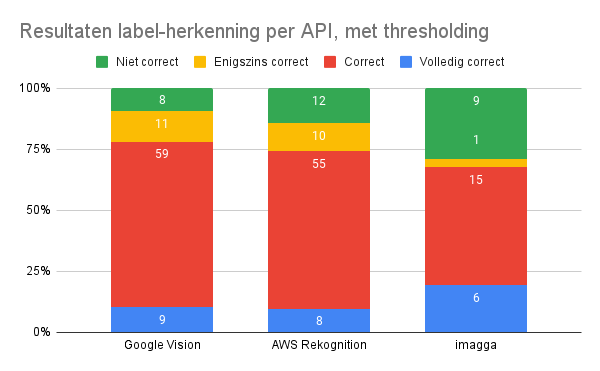
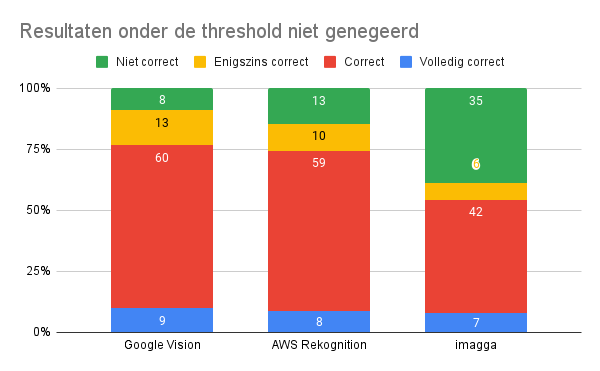
write on resultaten

diff --git a/bachproef/resultaten.tex b/bachproef/resultaten.tex
@@ -2,7 +2,7 @@
 %% Resultaten
 %%=============================================================================
 
-\chapter{\IfLanguageName{dutch}{Resultaten}{Results}}
+\chapter{\IfLanguageName{dutch}{Vergelijking van resultaten}{Comparing results}}
 \label{ch:resultaten}
 
 \section{\IfLanguageName{dutch}{Inleiding}{Preface}}
@@ -11,29 +11,15 @@ Na het uitvoeren van de code zoals besproken in Hoofdstuk\ref{ch:methodologie} w
 
 Op basis van deze csv werd voor iedere label een score vastgelegd zoals besproken in Sectie~\ref{sec:scoren-van-labels}. Daarnaast werd voor ieder gevonden label aangeduid of de threshold van 75\% zekerheidsgraad gehaald werd, de volledige resultaten van de scoring kunnen teruggevonden worden in deze\footnote{https://docs.google.com/spreadsheets/d/1oCs-aDkhPV2lCayjLyzUPF0SlAUZ7vMjzD4DYuIluyE} Google Sheet. In de sheet kan men ook de aggregatie van de resultaten en grafieken terugvinden.
 
-In de eerste sectie van dit hoofdstuk worden de resultaten besproken waarbij labels met een zekerheidsgraad onder de threshold genegeerd werden. In de volgende sectie worden de volledige resultaten van het onderzoek besproken en wordt de impact van de threshold per computer vision API verder toegelicht. Ten slotte wordt de peformantie van iedere API besproken en wordt er een besluit getrokken in functie van de onderzoeksvraag.
+In de eerste sectie van dit hoofdstuk worden de resultaten besproken waarbij labels met een zekerheidsgraad onder de threshold genegeerd worden. In de volgende sectie worden de volledige resultaten van het onderzoek besproken en wordt de impact van de threshold per computer vision API verder toegelicht. Ten slotte wordt de peformantie van iedere API besproken en wordt er een besluit getrokken in functie van de onderzoeksvraag.
 
-\section{\IfLanguageName{dutch}{Resultaten met thresholding}{Results with thresholding on confidence}}
+\section{\IfLanguageName{dutch}{Resultaten met thresholding toegepast}{Results with thresholding on confidence}}
 \label{sec:resultaten-met-thresholding}
 In de genormaliseerde staafdiagram op Figuur~\ref{fig:resultswiththresholding} worden het aantal resultaten per score van iedere computer vision API afgebeeld, waarbij de labels met een zekerheidsgraad onder 75\% werden genegeerd. Figuur~\ref{fig:resultswiththresholdingnotstacked} beeldt dezelfde data af maar in absolute waardes.
 
-\begin{figure}
-    \centering    
-    \includegraphics[width=\textwidth]{resultswiththresholding}
-    \caption{Resultaten label-herkenning per API, met thresholding}
-    \label{fig:resultswiththresholding}
-\end{figure}
+De percentages besproken in de volgende subsecties zijn steeds de percentages van het totaal van de respectievelijke scores zoals afgebeeld in Figuur~\ref{fig:resultswiththresholding}.
 
-\begin{figure}
-    \centering    
-    \includegraphics[width=\textwidth]{resultswiththresholdingnotstacked}
-    \caption{Resultaten label-herkenning per API, met thresholding niet genormaliseerd}
-    \label{fig:resultswiththresholdingnotstacked}
-\end{figure}
-
-Bij zowel Google Vision als AWS Rekognition zijn de resultaten gelijkaardig, imagga scoort significant verschillend. Aangezien de resultaten van Google Vision en AWS Rekognition dicht bij elkaar liggen worden deze naast elkaar besproken. Bij beide API's is het grootste deel van de gevonden labels 'correct'. Dit betekent dat de label correct was voor de afbeelding maar niet in de originele dataset vervat zat. Verder wijken ook de scores van van 'volledig correct' en 'engiszins correct' niet van elkaar significant af. Bij Google Vision werden er 8 labels - of 9,2\% van het totaal- als 'niet correct' gepunt, AWS Rekognition scoort hier 12 verkeerde labels of 14,12\% van het totaal. Een verschil minder dan 5\% is niet significant maar kan een trend voorspellen.
-
-In Figuur~\ref{fig:resultsthresholding} wordt het aantal labels afgebeeld dat de threshold-zekerheidsgraad niet haalde, opnieuw zien we een niet significant verschil tussen Google Vision en AWS Rekognition. Bij Google Vision vielen 3 labels of 3,3\% van het totaal onder de threshold, bij AWS Rekognition is dat 5 labels of 5,6\% van het totaal. Men kan stellen dat de resultaten over de hele lijn sterk gelijkaardig zijn tussen Google Vision en AWS Rekognition, met de mogelijkheid dat Google Vision iets beter scoort.
+Het is belangrijk om te vermelden dat bij imagga significant meer resultaten onder de threshold vielen waardoor de samplegroep in deze sectie slechts 31 scores omvat, zie Figuur~\ref{fig:resultsthresholding}.
 
 \begin{figure}
     \centering    
@@ -42,19 +28,82 @@ In Figuur~\ref{fig:resultsthresholding} wordt het aantal labels afgebeeld dat de
     \label{fig:resultsthresholding}
 \end{figure}
 
-De resultaten van imagga geven een ander beeld, bij Figuur~\ref{fig:resultswiththresholdingnotstacked} is op het eerste zich duidelijk dat er minder resultaten beschikbaar zijn als bij Google Vision of AWS Rekognition. Dit komt omdat 59 van de 90 labels (of 65,6\%) onder de threshold vallen, dit zorgt voor slechts 31 resultaten die geanalyseerd kunnen worden.
+\begin{figure}
+    \centering    
+    \includegraphics[width=\textwidth]{resultswiththresholding}
+    \caption{Genormaliseerde resultaten label-herkenning per API, resultaten onder de threshold genegeerd}
+    \label{fig:resultswiththresholding}
+\end{figure}
 
-Opvallend is dat voor imagga het aantal labels met 'volledig correct' een significant hoger percentage (19,35\%) van het totaal omvat als voor Google Vision (10,34\%) of AWS Rekognition (9,41\%). Verder heeft imagga slechts 1 'engiszins correct' label. 9 labels of 29,03\% van het totaal werden gescoord als 'niet correct', dit is een significant verschil met de 'niet correct' scores van Google Vision en AWS Rekognition. Aangezien er voor imagga procentueel gezien veel labels als 'volledig correct' en 'niet correct' werden aangeduid maar weinig labels als 'enigszins correct' kan men stellen dat het model ofwel zeer correct is, ofwel volledig verkeerd is. 15 labels of 48,39\% van het totaal werden voor imagga als 'correct' aangeduid, opnieuw is dat een significant lager percentage vergeleken met Google Vision (67,8\%) en AWS Rekognition (64,7\%).
+\begin{figure}
+    \centering    
+    \includegraphics[width=\textwidth]{resultswiththresholdingnotstacked}
+    \caption{Resultaten label-herkenning per API, resultaten onder de thresholding genegeerd}
+    \label{fig:resultswiththresholdingnotstacked}
+\end{figure}
 
-Verder viel bij het analyseren van de resultaten op dat imagga de enige API is die zekerheidsgraden van 100\% terug geeft, opnieuw kan men stellen dat imagga ofwel heel zeker is of helemaal niet zeker. De zekerheidsgraden van Google Vision en AWS Rekognition bevinden zich meestal tussen 85\% en 99.9\%.
+%Bij zowel Google Vision als AWS Rekognition zijn de resultaten gelijkaardig, imagga scoort significant verschillend. Aangezien de resultaten van Google Vision en AWS Rekognition dicht bij elkaar liggen worden deze naast elkaar besproken. 
 
-\section{\IfLanguageName{dutch}{Resultaten zonder thresholding}{Results without thresholding}}
+\subsection{\IfLanguageName{dutch}{Volledig correct}{volledig correct}}
+\label{sec:resultaten-volledig-correct}
+Percentages in volgorde van grootte:
+\begin{itemize}
+    \item Imagga: 19,4\%
+    \item Google Vision: 10,3\%
+    \item AWS Rekognition: 9,4\%
+\end{itemize}
+
+imagga behaalt in deze categorie een signifcant hogere score dan Google Vision of AWS Rekognition met een verschil van +-10\%. Google Vision en AWS Rekognition zijn onderling niet significant verschillend.
+imagga geeft gemiddeld minder algemene labels terug dan Google Vision of AWS Rekognition, het durft vaker een specifiek object of concept benoemen. Deze manier van labelen zorgt voor een hoger percentage 'volledig correct'.
+
+\subsection{\IfLanguageName{dutch}{Correct}{Correct}}
+\label{sec:resultaten-correct}
+Percentages in volgorde van grootte:
+\begin{itemize}
+    \item Google Vision: 67,8\%
+    \item AWS Rekogniion: 64,7\%
+    \item imagga: 48,4\%
+\end{itemize}
+
+Opnieuw scoren Google Vision en AWS Rekognition niet significant verschillend van elkaar, er is echter een kloof van 15\% tot 19\% naar imagga. Uit deze data kan gesteld worden dat Google Vision en AWS Rekognition sterk zijn in labels vinden die correct zijn, maar eerder in de algemene vorm. Bij Google Vision viel in de resultaten op dat er vaak het label 'sky' werd geretourneerd en bij AWS Rekognition 'Person'. Deze objecten zijn meestal niet de belangrijkste maar zijn wel 'correct'.
+
+\subsection{\IfLanguageName{dutch}{Enigszins correct}{Somewhat correct}}
+\label{sec:resultaten-enigszins-correct}
+Percentages in volgorde van grootte:
+\begin{itemize}
+    \item Google Vision: 12,6\%
+    \item AWS Rekogniion: 11,8\%
+    \item imagga: 3,2\%
+\end{itemize}
+
+Google Vision en AWS Rekognition zijn net zoals bij de voorgaande categorieën niet significant verschillend. imagga scoort ook in deze categorie een stuk lager in vergelijking met de andere twee API's. Zoals in de vorige sectie besproken geven zowel Google Vision als AWS Rekognition regelmatig labels terug die algemeen zijn in plaats van specifiek. Labels in de categorie 'enigszins correct' geven een te vage beschrijving om waarde toe te voegen aan de afbeelding. Zo geeft AWS Rekognition bij sample12 - een foto van fruit op de markt - de label 'plant' terug. imagga geeft gemiddeld meer specifieke labels terug, wat de lage score in deze categorie verklaart.
+
+\subsection{\IfLanguageName{dutch}{Niet correct}{niet correct}}
+\label{sec:resultaten-niet-correct}
+Percentages in oplopende volgorde van grootte:
+\begin{itemize}
+    \item Google Vision: 9,2\%
+    \item AWS Rekogniion: 14,1\%
+    \item imagga: 29\%
+\end{itemize}
+
+In deze categorie valt er een verschil op te merken van 4,9\% tussen Google Vision en AWS Rekognition. Dit verschil kan als niet significant beschoud worden maar kan op een trend wijzen waarbij Google Vision minder foute resultaten retourneer dan AWS Rekognition. imagga scoort in deze categorie relatief slecht, er zijn significant meer foute resultaten als bij Google Vision of AWS Rekognition. Opnieuw kunnen deze verschillen verklaard worden door de tendens van imagga om meer specifieke labels terug te geven, dit zorgt voor meer 'volledig correct' maar de keerzijde is dat er ook 'niet correct' labels zijn. Google Vision en AWS Rekognition spelen het eerder veilig om zo de foutmarges zo laag mogelijk te houden.
+
+\section{\IfLanguageName{dutch}{Resultaten met thresholding niet toegepast}{Results without thresholding}}
 \label{sec:resultaten-zonder-thresholding}
-In Figuur~\ref{fig:resultswithoutthresholding} worden de opgetelde scores per API genormaliseerd afgebeeld, zonder dat de scores onder de threshold werden genegeerd.
+In Figuur~\ref{fig:resultswithoutthresholding} worden de opgetelde scores per API genormaliseerd afgebeeld, de scores onder de threshold werden in deze grafiek niet genegeerd.
 
-Het verschil in scores tussen Google Vision en AWS Rekognition is opnieuw niet significant, dit is logisch te verklaren omdat bij beide API's slechts enkele labels onder de threshold vielen. Bij imagga wordt er echter belangrijke significante verschillen opgemerkt, er zijn 27 meer 'correct' labels en 26 meer 'niet correct' labels. Procentueel gezien stijgt 'niet correct' met 9,1\% en daalt 'volledig correct' met 11,6\% de andere scores zijn niet significant verschillend.
+Het verschil in percentages tussen thresholding genegeerd en niet genegeerd zijn niet significant voor zowel Google Vision als AWS Rekognition. Dit kan verklaard worden doordat beide respectievelijk slechts 3 en 5 labels onder de threshold hadden.
 
-Er kan gesteld worden dat imagga veruit het meest terughoudend is met de zekerheidgraad, een correct manier van labelen aangezien het accepteren van een lagere zekerheidsgraad procentueel gezien tot meer verkeerde resultaten leidt.
+Bij imagga worden er wel significante verschillen opgemerkt, er zijn 27 meer 'correct' labels en 26 meer 'niet correct' labels. Procentueel gezien krijgen we volgende wijzigingen:
+\begin{itemize}
+    \item Volledig correct: -11,6\%
+    \item Correct: -1,7\%
+    \item Enigszins correct: +3,5\%
+    \item Niet correct: +9,9\%
+\end{itemize}
+
+Er kan gesteld worden dat imagga veruit het meest terughoudend is met de zekerheidgraad wat er voor zorgt dat er veel meer labels onder de threshold vallen. Dit lijkt een correct manier van labelen voor imagga aangezien het accepteren van een lagere zekerheidsgraad procentueel gezien tot meer verkeerde resultaten leidt. Verder viel bij het analyseren van de resultaten op dat imagga de enige API is die zekerheidsgraden van 100\% terug geeft, opnieuw kan men stellen dat imagga ofwel heel correct is, ofwel heel incorrect is.
 
 \begin{figure}
     \centering    
@@ -65,14 +114,42 @@ Er kan gesteld worden dat imagga veruit het meest terughoudend is met de zekerhe
 
 \section{\IfLanguageName{dutch}{Snelheid per API}{Speed per api}}
 \label{sec:snelheid-per-api}
-Alhoewel snelheid van verwerking geen belangrijk doel is in de use-case van deze Bachelorproef wordt ze toch kort geanalyseerd als bijkomstige informatie. 
+Alhoewel snelheid van verwerking geen belangrijk doel is in de onderzoeksvraag van deze Bachelorproef wordt ze toch kort geanalyseerd als bijkomstige informatie.
+
 Van iedere call werd bijgehouden hoe snel labels geretourneerd worden, deze data werd verwerkt tot gemiddeldes:
+\begin{itemize}
+    \item Google Vision: 594,17 milliseconden per call
+    \item AWS Rekognition: 1068,59 milliseconden per call
+    \item Imagga: 1641,42 milliseconden per call
+\end{itemize}
 
-\begin{enumerate}
-    \item Classificeren van afbeeldingen: terminologie en technieken
-    \item Bespreking belangrijkste stromingen binnen machine learning
-    \item Computer vision: hoe wordt classificatie en machine learning gecombineerd
-\end{enumerate}
+Bij alle API's blijft het gemiddelde ver onder het laagste gemiddelde dat gehaald wordt bij manuele classificatie: 10.000 milliseconden. Google Vision heeft de snelste verwerkingstijden, gevolgd door AWS Rekognition, gevolgd door imagga. imagga heeft de traagste verwerking, dit wordt beïnvloed door de requirement dat afbeeldingen altijd eerst moeten geupload worden voor ze kunnen gelabeld worden, er moeten 2 calls gemaakt worden in plaats van 1 call voor Google Vision of AWS Rekognition.
 
-\section{\IfLanguageName{dutch}{Besluit}{Resolution}}
+Er kan gesteld worden dat automatische labeling gemiddeld sneller verloopt dan manuele labeling, die door Archief Gent werd ingeschat op een absoluut minimum van 10.000 milliseconden per afbeelding.
+
+\section{\IfLanguageName{dutch}{Resultaten in functie van de onderzoeksvraag}{Resolution}}
 \label{sec:besluit}
+Op basis van de data besproken in vorige secties kan samengevat worden dat Google Vision en AWS Rekognition onderling weinig verschillend zijn, beiden scoren op alle categorieen weinig verschillend van elkaar. imagga daarintegen verschilt doordat het meer specifieke labels teruggeeft maar ook doordat het een lagere zekerheid heeft van de labels.
+
+De doelstellingen opgezet in de probleemstelling worden in dit besluit per API besproken.
+
+\subsection{\IfLanguageName{dutch}{Foto's zoekbaar maken door middel van AI}{Make pictures searchable with AI}}
+\label{sec:resultaten-doelstelling1}
+Zowel Google Vision, AWS Rekognition als imagga zijn in staat om foto's zoekbaar te maken op basis van AI.
+
+\subsection{\IfLanguageName{dutch}{De oplossing moet gemakkelijk te gebruiken zijn}{Ease of use}}
+\label{sec:resultaten-doelstelling2}
+De API's besproken in dit onderzoek zijn allen gemakkelijk te gebruiken voor een persoon met een basiskennis aan IT. Er kan gesteld worden dat een gemiddeld bedrijf de kennis in huis heeft, of de kennis kan huren, om integratie met een computer vision API op te zetten.
+
+\subsection{\IfLanguageName{dutch}{De oplossing moet breed bruikbaar zijn; voor veel verschillende soorten foto-archieven}{Solution must be usable for many different types of pictures}}
+\label{sec:resultaten-doelstelling3}
+In de testdata gebruikt in dit onderzoek werden er verschillende soorten afbeeldingen aangeboden: landschappen; evenementen; gebouwen; postkaarten; zwart-wit fotos; mensen; interieur. De API's konden bij alle soorten steeds labels toewijzen. Bij oudere
+
+\subsection{\IfLanguageName{dutch}{Foutmarge van maximaal 15\%}{Margin of error not higher than 15\%}}
+\label{sec:resultaten-doelstelling4}
+
+\subsection{\IfLanguageName{dutch}{Besluit}{Resolution}}
+\label{sec:resultaten-besluit}
+context ontbreekt
+
+Verder valt het op dat alle API's laag scoren voor 'volledig correct', dit wordt eenerzijds beinvloed door de kwaliteit van de labels in de dataset

diff --git a/bachproef/methodologie.tex b/bachproef/methodologie.tex
@@ -133,7 +133,7 @@ De afbeeldingen in de dataset zijn onder volgende categorieën verdeeld:
     \item 15 foto's met kleur of postkaarten
 \end{itemize}
 
-Alle afbeeldingen in de Beeldbank werden manueel gelabeld, er is hier bij het Archief Gent momenteel geen eenduidig systeem voor. Afbeeldingen kunnen gelabeld worden door de uploader, andere worden in bulk gelabeld, bij nog andere worden er achteraf labels toegevoegd. Vooral bij de zwart-wit foto's valt het op dat gedetailleerde labels ontbreken, wat een invloed heeft op de scoring van de labels.
+Alle afbeeldingen in de Beeldbank werden manueel gelabeld, er is hier bij het Archief Gent momenteel geen eenduidig systeem voor. Afbeeldingen kunnen gelabeld worden door de uploader, andere worden in bulk gelabeld, bij nog andere worden er achteraf labels toegevoegd. Vooral bij de oudere zwart-wit foto's valt het op dat gedetailleerde labels ontbreken, wat een invloed heeft op de scoring van de labels.
 
 *** ADD INFO FROM GENT'S ARCHIEF ***
 
@@ -183,6 +183,6 @@ Bij het analyseren van de resultaten wordt er per computer vision model besproke
 
 \subsection{\IfLanguageName{dutch}{Scoren van de snelheid}{Scoring of speed}}
 \label{sec:scoren-of-speed}
-Bij het labelen van foto-archieven is snelheid in het algemeen van minder belang, er is typisch geen tijdsdruk om de labels binnen een bepaalde tijdspanne aan te duiden. Manuele labeling duurt minstens 10 seconden per foto: de persoon moet de foto openklikken; 1 of meerdere labels intypen; de labels opslaan; volgende foto selecteren. 
+Bij het labelen van foto-archieven is snelheid in het algemeen van minder belang, er is typisch geen tijdsdruk om de labels binnen een bepaalde tijdspanne aan te duiden. Manuele labeling duurt minstens 10 seconden of 10.000 milliseconden per foto: de persoon moet de foto openklikken; 1 of meerdere labels intypen; de labels opslaan; volgende foto selecteren. 
 
 Het is dan ook belangrijk dat de automatische labeling via computer vision binnen dit tijdsbestek van 10 seconden blijft, op deze manier wordt ten minste de verwerkingstijd van manuele labeling gehaald. Naast deze constraint blijft snellere verwerking de voorkeur hebben op tragere verwerking, deze eigenschap zal bijgevolg ook worden opgenomen in de scoring van de modellen.

diff --git a/bachproef/inleiding.tex b/bachproef/inleiding.tex
@@ -15,11 +15,14 @@ Bij het verfijnen van de onderzoeksvraag werd er gekozen om te focussen op het a
 
 Het is belangrijk om op te merken dat foto-archieven een brede noemer is en dat het veel verschillende soorten foto's kan omvatten. Bijvoorbeeld foto's van gebouwen; landschappen; wildcamera's; kunstwerken; gezichten; wetenschapsonderwerpen, ...
 
-Uit de probleemstelling volgen afgelijnde 3 doelen:
+Tot slot is het belangrijk dat accuraatheid van de automatisch gedetecteerde labels voldoende hoog is,  in een productie-omgeving is het niet alleen belangrijk dat er labels worden toegewezen maar ook dat deze correct zijn. Er wordt een limiet van 15\% foute labels toegestaan.
+
+Uit de probleemstelling volgen 3 afgelijnde doelen:
 \begin{itemize}
     \item Foto's zoekbaar maken door middel van AI
     \item De oplossing moet gemakkelijk te gebruiken zijn
     \item De oplossing moet breed bruikbaar zijn; voor veel verschillende soorten foto-archieven
+    \item Foutmarge van maximaal 15\%
 \end{itemize}
 
 \section{\IfLanguageName{dutch}{Onderzoeksvraag}{Research question}}
